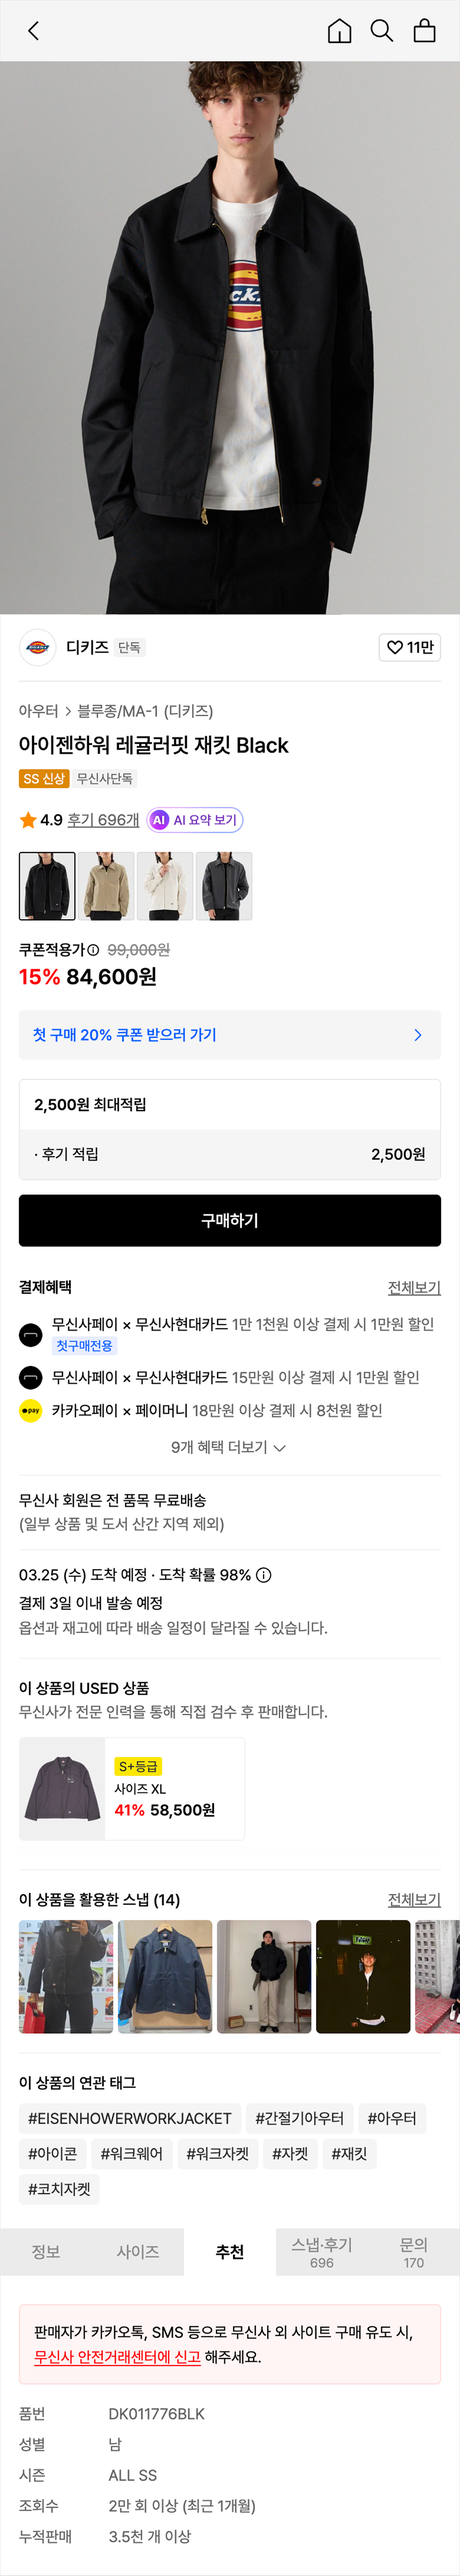
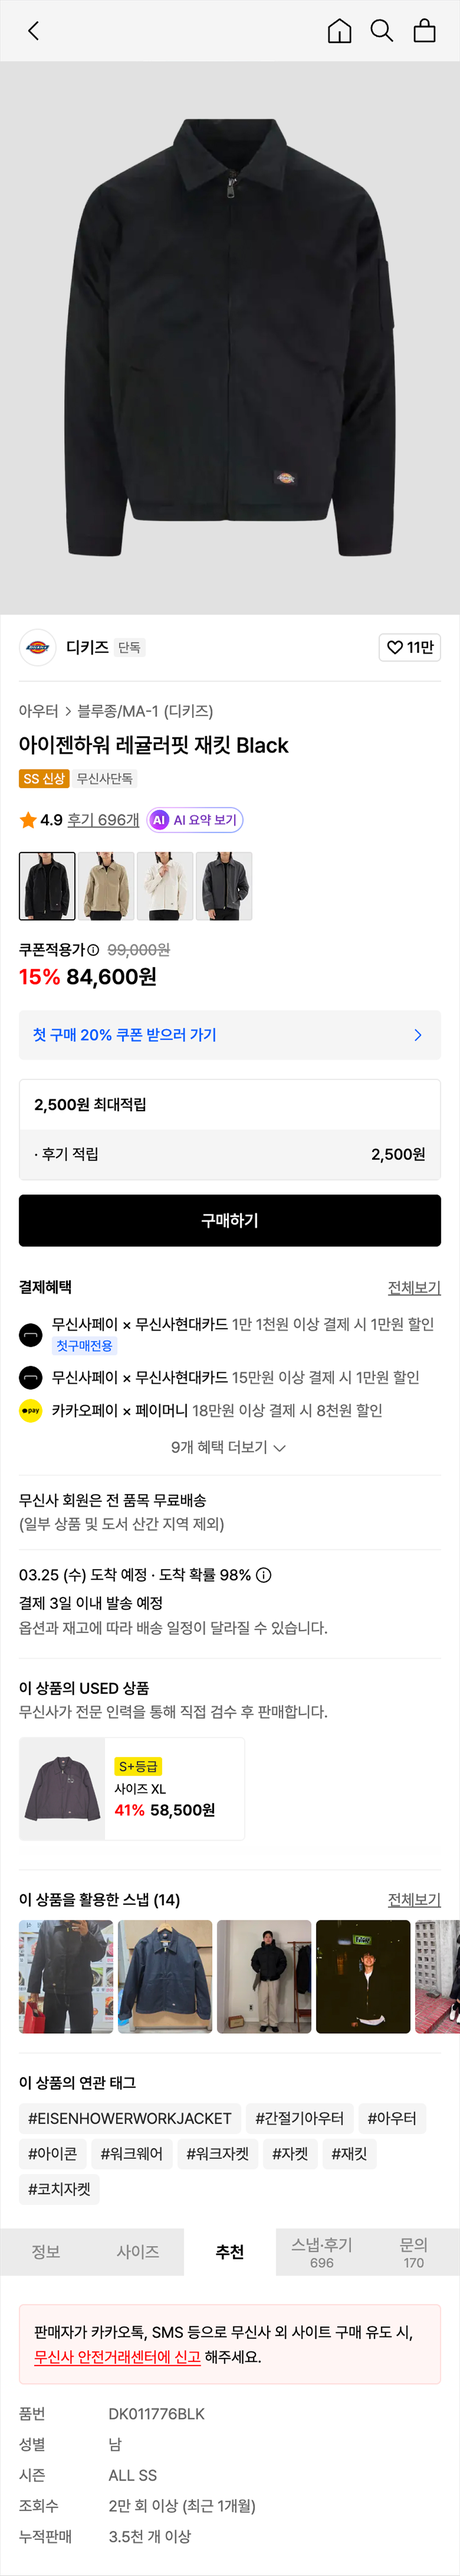
feat: Dickies PDP에 미디어 스테이지 및 상세 보기 토글 기능 추가

Changed region(s): [[0.0, 0.0, 1.0, 0.249]]

diff --git a/dickies/pdp/26ss_sample/v1/open.html b/dickies/pdp/26ss_sample/v1/open.html
@@ -34,20 +34,75 @@
 
     .framed-video {
       background: #191919;
-      padding: 0 16px;
+      padding: 0 100px;
+    }
+
+    .media-stage {
+      position: relative;
+      --toggle-offset: 100px;
+      --toggle-height: 46px;
+    }
+
+    .media-stage.is-collapsed {
+      max-height: calc(var(--toggle-offset) + var(--toggle-height));
+      overflow: hidden;
     }
 
     .inline-video {
       margin-top: 16px;
     }
 
+    .detail-toggle-wrap {
+      position: absolute;
+      top: var(--toggle-offset);
+      right: 0;
+      left: 0;
+      padding: 0 20px;
+      z-index: 2;
+    }
+
+    .detail-toggle {
+      display: flex;
+      align-items: center;
+      justify-content: center;
+      gap: 8px;
+      width: 100%;
+      height: 46px;
+      border: 1px solid #b9b9b9;
+      border-radius: 4px;
+      background: #fff;
+      color: #111;
+      font-size: 14px;
+      font-weight: 500;
+      letter-spacing: -0.02em;
+      cursor: pointer;
+    }
+
+    .detail-toggle::after {
+      content: "";
+      width: 7px;
+      height: 7px;
+      border-right: 1.5px solid #111;
+      border-bottom: 1.5px solid #111;
+      transform: rotate(45deg) translateY(-1px);
+    }
+
+    .detail-content[hidden],
+    .detail-toggle-wrap[hidden] {
+      display: none;
+    }
+
     @media (max-width: 767px) {
       .framed-video {
-        padding: 0 24px;
+        padding: 0 40px;
       }
 
       .inline-video {
         margin-top: 8px;
+      }
+
+      .detail-toggle-wrap {
+        padding: 0 16px;
       }
     }
   </style>
@@ -57,21 +112,43 @@
     <img src="1.jpg" alt="">
     <img src="2.jpg" alt="">
     <img src="3.jpg" alt="">
-    <div class="framed-video">
-      <video autoplay loop muted playsinline>
-        <source src="https://cdn.shopify.com/videos/c/o/v/371d47f5b90f45de840bf3c241fd7085.mp4" type="video/mp4">
-      </video>
+    <div class="media-stage is-collapsed">
+      <div class="framed-video">
+        <video autoplay loop muted playsinline>
+          <source src="https://cdn.shopify.com/videos/c/o/v/371d47f5b90f45de840bf3c241fd7085.mp4" type="video/mp4">
+        </video>
+      </div>
+      <div class="detail-toggle-wrap">
+        <button class="detail-toggle" type="button" aria-controls="detail-content" aria-expanded="false">
+          <span>더보기</span>
+        </button>
+      </div>
     </div>
-    <img src="5.jpg" alt="">
-    <img src="6.jpg" alt="">
-    <img src="7.jpg" alt="">
-    <video class="inline-video" autoplay loop muted playsinline>
-      <source src="2.mp4" type="video/mp4">
-    </video>
-    <img src="8.jpg" alt="">
-    <img src="9.jpg" alt="">
-    <img src="10.jpg" alt="">
-    <img src="11.jpg" alt="">
+    <div id="detail-content" class="detail-content" hidden>
+      <img src="5.jpg" alt="">
+      <img src="6.jpg" alt="">
+      <img src="7.jpg" alt="">
+      <video class="inline-video" autoplay loop muted playsinline>
+        <source src="2.mp4" type="video/mp4">
+      </video>
+      <img src="8.jpg" alt="">
+      <img src="9.jpg" alt="">
+      <img src="10.jpg" alt="">
+      <img src="11.jpg" alt="">
+    </div>
   </div>
+  <script>
+    const detailToggle = document.querySelector(".detail-toggle");
+    const detailToggleWrap = document.querySelector(".detail-toggle-wrap");
+    const mediaStage = document.querySelector(".media-stage");
+    const detailContent = document.querySelector("#detail-content");
+
+    detailToggle.addEventListener("click", () => {
+      detailToggle.setAttribute("aria-expanded", "true");
+      mediaStage.classList.remove("is-collapsed");
+      detailContent.hidden = false;
+      detailToggleWrap.hidden = true;
+    });
+  </script>
 </body>
 </html>
